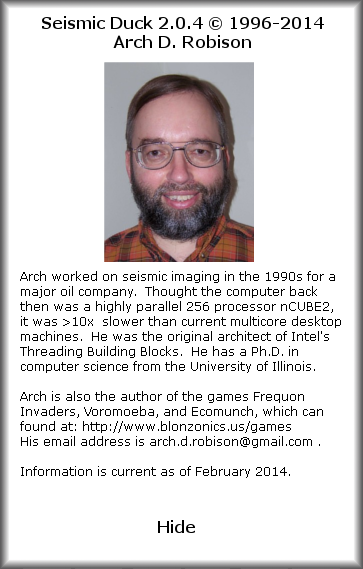
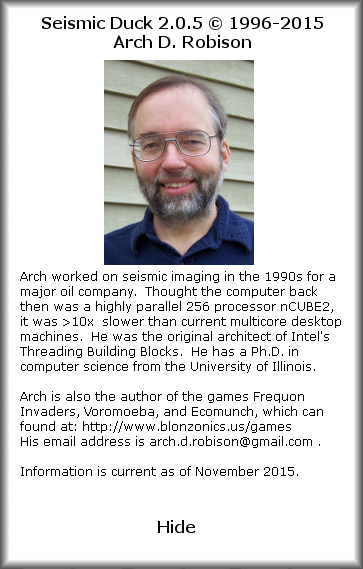
Throttle number of threads based on load.

diff --git a/Source/Parallel.cpp b/Source/Parallel.cpp
@@ -1,0 +1,78 @@
+#include "Parallel.h"
+#include "AssertLib.h"
+#include "tbb/task_scheduler_init.h"
+
+// There is a wide variance in the total time to compute and present a frame with DirectX.
+// Hence to get a more reliable estimate of BusyFrac, the code estimates
+// the time looking back over a certain number of frames. 
+
+static const unsigned TimeQueueSize = 8;     // Should be power of two for speed, though other sizes will work.
+static const unsigned TimeLookback = 6;      // Number of frames to look back.  Must be less than TimeQueueSize.
+static double TimeQueue[TimeQueueSize];
+static unsigned TimeQueueIndex;              // Index into TimeQueueIndex
+static float LastBusyFrac;
+
+static const float BusyFracSlow = 0.80; // The acceptable BusyFrac 
+static const float BusyFracFast = 0.60; // The acceptable BusyFrac 
+static const int LookBack = 15;         // How many frames to look back
+static const int MissTolerance = 3;     // How many misses to tolerate in a LookBack period
+static const int Settle = 15;           // Number of frames to ignore after changing thread count
+
+static unsigned WasSlow;
+static unsigned WasFast;
+
+static int SettleCount = Settle;
+
+static int ThreadCount = 1;
+static tbb::task_scheduler_init TheTaskSchedulerInit(ThreadCount);
+
+static int BitCount(unsigned n) {
+    int k = 0;
+    for(; n; n &= n-1) ++k;
+    return k;
+}
+
+static void BumpThreadCount(int delta) {
+    Assert(1<=ThreadCount+delta);
+    Assert(ThreadCount+delta <= TheTaskSchedulerInit.default_num_threads());
+    TheTaskSchedulerInit.terminate();
+    ThreadCount += delta;
+    TheTaskSchedulerInit.initialize(ThreadCount);
+    WasSlow = 0;
+    WasFast = 0;
+    SettleCount = Settle;
+}
+
+void ThrottleWorkers(double t0, double t1) {
+    // Compute BusyFrac
+    TimeQueue[TimeQueueIndex] = t1;
+    double oldT1 = TimeQueue[(TimeQueueIndex - TimeLookback) % TimeQueueSize];
+    TimeQueueIndex = (TimeQueueIndex + 1) % TimeQueueSize;
+    float busyFrac = float((t1-t0)*TimeLookback / (t1-oldT1));
+    LastBusyFrac = busyFrac;
+
+    // Act on it
+    if(SettleCount==0) {
+        WasSlow = WasSlow<<1 | unsigned(busyFrac>BusyFracSlow);
+        WasFast = WasFast<<1 | unsigned(busyFrac<BusyFracFast);
+        int j = BitCount(WasFast & (1<<LookBack)-1);
+        int k = BitCount(WasSlow & (1<<LookBack)-1);
+        if(k>MissTolerance && ThreadCount<TheTaskSchedulerInit.default_num_threads()) {
+            // Running slower than threshold enough times that it's worth trying more threads.
+            BumpThreadCount(1);
+        } else if(k==0 && j >= LookBack-MissTolerance && ThreadCount>1) {
+            // Running faster than necessary most of the time, and never missing a deadline, so throttle back some.
+            BumpThreadCount(-1);
+        }
+    } else {
+        --SettleCount;
+    }
+}
+
+int WorkerCount() {
+    return ThreadCount;
+}
+
+float BusyFrac() {
+    return LastBusyFrac;
+}

diff --git a/Source/Parallel.h b/Source/Parallel.h
@@ -1,15 +1,15 @@
-/* Copyright 1996-2014 Arch D. Robison 
+/* Copyright 1996-2015 Arch D. Robison
 
-   Licensed under the Apache License, Version 2.0 (the "License"); 
-   you may not use this file except in compliance with the License. 
-   You may obtain a copy of the License at 
-   
-       http://www.apache.org/licenses/LICENSE-2.0 
-       
-   Unless required by applicable law or agreed to in writing, software 
-   distributed under the License is distributed on an "AS IS" BASIS, 
-   WITHOUT WARRANTIES OR CONDITIONS OF ANY KIND, either express or implied. 
-   See the License for the specific language governing permissions and 
+   Licensed under the Apache License, Version 2.0 (the "License");
+   you may not use this file except in compliance with the License.
+   You may obtain a copy of the License at
+
+       http://www.apache.org/licenses/LICENSE-2.0
+
+   Unless required by applicable law or agreed to in writing, software
+   distributed under the License is distributed on an "AS IS" BASIS,
+   WITHOUT WARRANTIES OR CONDITIONS OF ANY KIND, either express or implied.
+   See the License for the specific language governing permissions and
    limitations under the License.
  */
 
@@ -33,7 +33,7 @@
 //! Cilk implementation of one-dimensional ghost cell pattern using cilk_for.
 template<typename Op>
 void parallel_ghost_cell( size_t n, const Op& op ) {
-    cilk_for( size_t i=1; i<n; ++i ) 
+    cilk_for( size_t i=1; i<n; ++i )
         op.exchangeBorders(i);
     cilk_for( size_t i=0; i<n; ++i )
         op.updateInterior(i);
@@ -70,6 +70,8 @@ void parallel_ghost_cell( size_t n, const Op& op ) {
 
 #include "tbb/parallel_invoke.h"
 
+#define HAVE_WORKER_THROTTLE 1
+
 //! TBB task for parallel_ghost_cell
 template<typename Op>
 class ghost_cell_task: public tbb::task {
@@ -84,7 +86,7 @@ class ghost_cell_task: public tbb::task {
             int mid=lower+((upper-lower)>>1);
             // Exchange border information along the split
             op.exchangeBorders(mid);
-            // Evaluate the two subgroups in parallel.  
+            // Evaluate the two subgroups in parallel.
             task& c = *new( allocate_continuation() ) tbb::empty_task();
             // Continuation implicitly waits on 2 children.
             c.set_ref_count(2);
@@ -110,6 +112,12 @@ void parallel_ghost_cell( size_t n, const Op& op ) {
     }
 };
 
+//! Return most recent estimate of what fraction of time was spend computing. 
+float BusyFrac();
+
+// Return number of worker threads
+int WorkerCount();
+
 #else
 
 //! Serial implementation of parallel_ghost_cell
@@ -126,4 +134,5 @@ void parallel_ghost_cell( size_t n, const Op& op ) {
         op.updateInterior(i);
     }
 }
+
 #endif /* serial */

diff --git a/Platform/DirectX9/Host_win.cpp b/Platform/DirectX9/Host_win.cpp
@@ -1,4 +1,4 @@
-/* Copyright 1996-2014 Arch D. Robison 
+/* Copyright 1996-2015 Arch D. Robison 
 
    Licensed under the Apache License, Version 2.0 (the "License"); 
    you may not use this file except in compliance with the License. 
@@ -276,25 +276,29 @@ static void InitializeFloatingPoint(void)
     _control87(MCW_EM,MCW_EM);
 }
 
-//! Initially recorded time from QueryPerformanceCounter
-/** This value is subtracted from subsequent calls to QueryPerformanceCounter,
-    in order to increase the number of signficicant bits returned by HostClockTime(). */
-static LARGE_INTEGER ClockBase;
-
-static LARGE_INTEGER ClockFreq;
+static double TotalClockTime;
+static LARGE_INTEGER OldClockFreq;
+static LARGE_INTEGER OldClockCount;
 
 static void InitializeClock() {
-    BOOL countStatus = QueryPerformanceCounter(&ClockBase); 
+    BOOL countStatus = QueryPerformanceCounter(&OldClockCount); 
     Assert(countStatus);
-    BOOL freqStatus = QueryPerformanceFrequency(&ClockFreq);  
+    BOOL freqStatus = QueryPerformanceFrequency(&OldClockFreq);  
     Assert(freqStatus);
 };
 
 double HostClockTime() {
-    LARGE_INTEGER count;
+    // The following algorithms attempts to compensate for dynamic frequency scaling
+    // by using the average frequency between now and the previous clock reading.
+    LARGE_INTEGER count, freq;
     BOOL counterStatus = QueryPerformanceCounter(&count); 
     Assert(counterStatus);
-    return double(count.QuadPart-ClockBase.QuadPart)/ClockFreq.QuadPart; 
+    BOOL freqStatus = QueryPerformanceFrequency(&freq);  
+    Assert(freqStatus);
+    TotalClockTime += 2*double(count.QuadPart-OldClockCount.QuadPart)/(freq.QuadPart+OldClockFreq.QuadPart);
+    OldClockCount = count;
+    OldClockFreq = freq;
+    return TotalClockTime; 
 }
 
 bool HostIsKeyDown( int key ) {
@@ -420,6 +424,7 @@ static void UpdateAndDraw( HWND hwnd ) {
     D3DLOCKED_RECT lockedRect;
     hr = backBuffer->LockRect(&lockedRect,NULL,D3DLOCK_NOSYSLOCK|D3DLOCK_DISCARD);
     Assert(hr==D3D_OK);
+    double t0 = HostClockTime();
     NimblePixMap pixmap(desc.Width,desc.Height,32,lockedRect.pBits,lockedRect.Pitch);
     if( ResizeOrMove ) {
         GameResizeOrMove( pixmap );
@@ -432,6 +437,10 @@ static void UpdateAndDraw( HWND hwnd ) {
 	previousTime = currentTime;
 #endif
 	GameUpdateDraw(pixmap, NimbleUpdate | NimbleDraw);
+
+    extern void ThrottleWorkers(double,double);         // Defined in Parallel.cpp
+    ThrottleWorkers(t0,HostClockTime());
+
     hr = backBuffer->UnlockRect();
     Assert(hr==D3D_OK);
     backBuffer->Release();

diff --git a/Source/Game.cpp b/Source/Game.cpp
@@ -1,4 +1,4 @@
-/* Copyright 1996-2014 Arch D. Robison 
+/* Copyright 1996-2015 Arch D. Robison 
 
    Licensed under the Apache License, Version 2.0 (the "License"); 
    you may not use this file except in compliance with the License. 
@@ -462,6 +462,8 @@ static BarMeter OilMeter("OilMeter");
 static BarMeter GasMeter("GasMeter");
 static RubberImage PanelBackground("Panel");
 static DigitalMeter FrameRateMeter(6,1);
+static DigitalMeter ThreadMeter(2,0);
+static GraphMeter BusyMeter(90,25,NimbleColor(255,255,0));
 
 static MessageDialog TheLevelContinueDialog("LevelContinueDialog");
 static MessageDialog WarnBreakDrillDialog("WarnBreakDrillDialog");
@@ -617,6 +619,7 @@ void GameUpdateDraw( NimblePixMap& map, NimbleRequest request ) {
 #if WRITING_DOCUMENTATION
     new(&TheMap) NimblePixMap( map );
 #endif /* WRITING_DOCUMENTATION */
+
     WavefieldRect = NimbleRect(PanelWidth,map.height()/2,map.width(),map.height());
     NimblePixMap subsurface(map,WavefieldRect); 
     NimblePixMap seismogramClip( map,NimbleRect(PanelWidth,0,map.width(),map.height()/2) );
@@ -713,8 +716,15 @@ void GameUpdateDraw( NimblePixMap& map, NimbleRequest request ) {
         int airGunTop = tabTop2+2*TheFont.height();;
         AirgunMeter.drawOn( map, PanelWidth/2-AirgunMeter.width()/2, airGunTop );
         if( ShowFrameRate ) {
+            int frameMeterY = fluidMeterY-FrameRateMeter.height()-15;
             FrameRateMeter.setValue( EstimateFrameRate() );
-            FrameRateMeter.drawOn( map, PanelWidth/2-FrameRateMeter.width()/2, fluidMeterY-FrameRateMeter.height()-15 ); 
+            FrameRateMeter.drawOn( map, PanelWidth/2-FrameRateMeter.width()/2, frameMeterY ); 
+            int threadMeterY = frameMeterY -ThreadMeter.height() - 10;
+            int pairWidth = ThreadMeter.width() + 10 + BusyMeter.width();
+            ThreadMeter.setValue( WorkerCount() );
+            ThreadMeter.drawOn( map, PanelWidth/2 - pairWidth/2, threadMeterY );
+            BusyMeter.update( BusyFrac() );
+            BusyMeter.drawOn( map, PanelWidth/2 + pairWidth/2 - BusyMeter.width(), threadMeterY );
         }
         DrawClickable( TheFileMenu, map, tabLeft1, tabTop1 );
         DrawClickable( TheHelpMenu, map, tabLeft2, tabTop1 );
@@ -858,7 +868,7 @@ void ExploreNewAreaItem::onSelect() {CreateNewArea();}
 void EndGameItem::onSelect() {ScoreState.finishGame();}
 
 const char* GameTitle() {
-    return "Seismic Duck 2.0.4"
+    return "Seismic Duck 2.1"
 #if ASSERTIONS
            " ASSERTIONS"
 #endif

diff --git a/Platform/SDL-2.0/Host_sdl.cpp b/Platform/SDL-2.0/Host_sdl.cpp
@@ -21,6 +21,9 @@ limitations under the License.
 #include <cstdio>
 #include <cstdlib>
 #include <string>
+#ifdef _WIN32
+#include <direct.h>
+#endif
 
 static SDL_PixelFormat* ScreenFormat;
 
@@ -72,6 +75,12 @@ void HostLoadResource(BuiltFromResourcePixMap& item) {
 
 double HostClockTime() {
     return SDL_GetTicks()*0.001;
+}
+
+static float BusyFrac;
+
+float HostBusyFrac() {
+    return BusyFrac;
 }
 
 static int NewFrameIntervalRate=1, OldFrameIntervalRate=-1;
@@ -239,12 +248,17 @@ int main(int argc, char* argv[]){
                 printf("Internal eror: SDL_LockTexture failed: %s\n", SDL_GetError());
                 break;
             }
+            double t0 = HostClockTime(); 
             NimblePixMap screen(w, h, 8*sizeof(NimblePixel), pixels, pitch);
             if(Resize) {
                 GameResizeOrMove(screen);
                 Resize = false;
             }
             GameUpdateDraw(screen, NimbleUpdate|NimbleDraw);
+
+            extern void ThrottleWorkers(double,double);
+            ThrottleWorkers(t0,HostClockTime()); 
+
             SDL_UnlockTexture(texture[textureIndex]);
             SDL_RenderClear(renderer);
             // Assume 60 Hz update rate.  Simulate slower refresh rate by presenting texture twice.

diff --git a/Source/Widget.cpp b/Source/Widget.cpp
@@ -337,12 +337,13 @@ void BarMeter::drawOn( NimblePixMap& map, int x, int y ) const {
 // GraphMeter
 //-----------------------------------------------------------------
  
-GraphMeter::GraphMeter( int width, int height ) :
+GraphMeter::GraphMeter( int width, int height, NimbleColor penColor ) :
     myWidth(width),
     myHeight(height),
     myMin(0.0f),
     myMax(1.0f),
-    myHead(0)
+    myHead(0),
+    myPenColor(penColor.pixel())
 {
     int n = myWidth<<lg2Scale;
     myArray = new float[n];
@@ -352,7 +353,6 @@ GraphMeter::GraphMeter( int width, int height ) :
 }
  
 void GraphMeter::drawOn( NimblePixMap& map, int x, int y ) const {
-    NimblePixel green( NimbleColor(0,0xFF,0).pixel());
     NimbleRect r(x,y,x+myWidth,y+myHeight);
     map.draw(r,NimblePixel(0));
     int h = myHeight;
@@ -367,7 +367,7 @@ void GraphMeter::drawOn( NimblePixMap& map, int x, int y ) const {
         // Clip
         if( i<0 ) i=0;
         if( i>=h ) i=h-1; 
-        *(NimblePixel*)map.at(t>>scale,y+i) = green;
+        *(NimblePixel*)map.at(t>>scale,y+i) = myPenColor;
     }
 }
 

diff --git a/Source/Widget.h b/Source/Widget.h
@@ -118,7 +118,7 @@ private:
 
 class GraphMeter {
 public:
-    GraphMeter( int width, int height );
+    GraphMeter( int width, int height, NimbleColor penColor = NimbleColor(0,0xFF,0) );
     ~GraphMeter() {delete[] myArray;}
     void drawOn( NimblePixMap& map, int x, int y ) const;
     void setLimits( float min, float max  ) {
@@ -138,6 +138,7 @@ private:
     static const int lg2Scale = 1;
     int myWidth;
     int myHeight;
+    NimblePixel myPenColor;
     //! Lower bound on data points that will be displayed without clipping
     float myMin;
     //! Upper bound on data points that will be displayed without clipping

diff --git a/Source/Host.h b/Source/Host.h
@@ -1,4 +1,4 @@
-/* Copyright 1996-2014 Arch D. Robison 
+/* Copyright 1996-2015 Arch D. Robison 
 
    Licensed under the Apache License, Version 2.0 (the "License"); 
    you may not use this file except in compliance with the License. 
@@ -26,6 +26,10 @@ double HostClockTime();
     1 = one per frame
     2 = every two frames */
 void HostSetFrameIntervalRate( int limit );
+
+//! Estimate on how busy host is maintaining current frame rate with current resources.
+/** 0.75 means that host is idling 25% of the time. */
+float HostBusyFrac();
 
 //! Enumeration of keys corresponding to non-printing characters. 
 enum {
